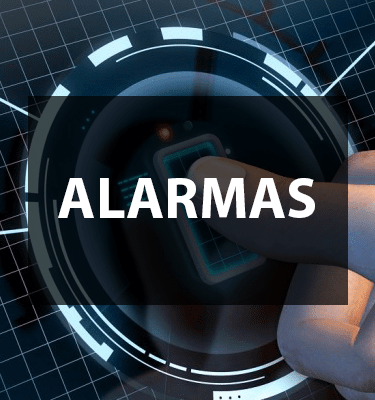
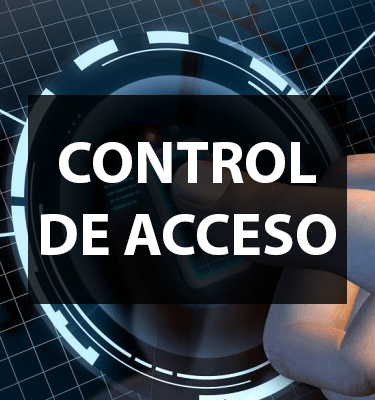
Implementados todos los cambios del docuemento Feedback, excepto el cambio de imagen del hombre en video portero. Falta pulir detalles de formato de texto

diff --git a/index.html b/index.html
@@ -59,11 +59,12 @@
 			    <li data-target="#carousel-inicio" data-slide-to="0" class="active"></li>
 			    <li data-target="#carousel-inicio" data-slide-to="1"></li>
 			    <li data-target="#carousel-inicio" data-slide-to="2"></li>
+			    <li data-target="#carousel-inicio" data-slide-to="3"></li>
 			  </ol>
 			  <div class="carousel-inner">
 			    <div class="carousel-item active">
-                    <img class="d-none d-md-block w-100 img-fluid" src="resources/img/Car1-min.png" alt="First slide">
-                    <img class="d-md-none w-100 img-fluid" src="resources/img/Car1-mobile-min.png" alt="First slide">
+                    <img class="d-none d-md-block w-100 img-fluid" src="resources/img/Car3-min.png" alt="First slide">
+                    <img class="d-md-none w-100 img-fluid" src="resources/img/Car3-mobile-min.png" alt="First slide">
                     <div class="carousel-caption d-none d-md-block">
                         <h3>ALARMAS</h3>
                         <p>Alarmas contra robo e incendio para aplicaciones tanto en residencias, como en negocios con una pequeña estructura, hasta aplicaciones comerciales a gran escala.</p>
@@ -78,11 +79,19 @@
                     </div>
 			    </div>
 			    <div class="carousel-item">
-                    <img class="d-none d-md-block w-100 img-fluid" src="resources/img/Car3-min.png" alt="Third slide">
-                    <img class="d-md-none w-100 img-fluid" src="resources/img/Car3-mobile-min.png" alt="Third slide">
+                    <img class="d-none d-md-block w-100 img-fluid" src="resources/img/Car4-min.png" alt="Third slide">
+                    <img class="d-md-none w-100 img-fluid" src="resources/img/Car4-mobile-min.png" alt="Third slide">
                     <div class="carousel-caption d-none d-md-block">
                         <h3>VIDEOPORTERO</h3>
                         <p>El sistema de Intercomunicador Visual hace de la comunicación algo más personal, más agradable y más tecnológicamente avanzado que nunca.</p>
+				  </div>
+			    </div>
+                <div class="carousel-item">
+                    <img class="d-none d-md-block w-100 img-fluid" src="resources/img/Car1-min.png" alt="Fourth slide">
+                    <img class="d-md-none w-100 img-fluid" src="resources/img/Car1-mobile-min.png" alt="Fourth slide">
+                    <div class="carousel-caption d-none d-md-block">
+                        <h3>CONTROL DE ACCESO</h3>
+                        <p>Soluciones con tecnología de huella digital, reconocimiento facial y tarjetas de proximidad, para la apertura de puertas, control de personal y accesos.</p>
 				  </div>
 			    </div>
 			  </div>
@@ -114,7 +123,7 @@
 		<div class="row justify-content-md-center">
 			<div class="col-md-4 text-center my-sm-auto">
 				<h2 class="display-3 d-none d-md-block">¿Quiénes<br>somos?</h2>
-                <h2 class="display-4 d-md-none">¿Quiénes somos?</h2>
+                <h2 class="display-5 d-md-none">¿Quiénes somos?</h2>
 			</div>
 			<div class="col-md-6 text-justify mt-4">
                 <p class="mb-0">Juan Barrios Seguridad es una empresa que se dedica a la búsqueda de soluciones sustentables en seguridad electrónica respondiendo a las crecientes demandas de la sociedad actual. Contamos con productos homologados por las más exigentes normas.</p>

diff --git a/alarmas.html b/alarmas.html
@@ -83,6 +83,28 @@
             </div>
         </div>
     </div>
+    <div class="row pt-5 pb-5 pb-lg-0 justify-content-center">
+            <div class="col-lg-3">
+                <img class="img-fluid d-none d-lg-block" src="resources/img/phone-app-2-min.png">
+                <img class="d-lg-none app-logo PSNGO-logo" src="resources/img/PSNGO-app-logo-min.png">
+            </div>
+            <div class="col-lg-5">
+                <p class="display-4 mb-0 mt-4 mt-lg-0 cuerpo-copete">PowerSeries Neo go</p>
+                <p class="col-lg-10 mt-3 mt-lg-4 details">
+                    Complementado por soluciones de software exclusivas, el sistema de seguridad PowerSeries Neo ofrece una extensa selección de dispositivos PowerG, creados para instalaciones simples y amigables para el usuario.
+                    <br>
+                    PowerSeries Neo Go brinda conveniencia y tranquilidad mediante una aplicación de simple uso con un control básico sobre su sistema PowerSeries Neo. Mediante conexiones por banda ancha o celular vía el Comunicador PowerSeries Neo, se conecta de forma directa con su sistema sin compartir datos personales en la nube.</p>
+                <h2 class="ml-3 mt-4 mt-lg-5 mb-3 mb-lg-4">Descargá la app:</h2>
+                <div class="mx-3 mb-4">
+                    <a href="https://play.google.com/store/apps/details?id=com.dsc.powerneo&hl=en">
+                        <img class="img-fluid app-link" src="resources/img/play-store-min.png">
+                    </a>
+                    <a href="https://itunes.apple.com/uy/app/powerseries-neo-go/id966948431?mt=8">
+                        <img class="img fluid app-link" src="resources/img/app-store-min.png">
+                    </a>
+                </div>
+            </div>
+        </div>
 
     <!-- Footer -->
     <footer class="container-fluid px-0 footer">

diff --git a/video-vigilancia.html b/video-vigilancia.html
@@ -84,6 +84,28 @@
             </div>
         </div>
     </div>
+    <div class="row pt-5 pb-5 pb-lg-0 justify-content-center">
+            <div class="col-lg-3">
+                <img class="img-fluid d-none d-lg-block" src="resources/img/phone-app-min.png">
+                <img class="d-lg-none app-logo" src="resources/img/Hikvision-app-logo-min.png">
+            </div>
+            <div class="col-lg-5">
+                <p class="display-4 mb-0 mt-4 mt-lg-0 cuerpo-copete">Hik-CONNECT</p>
+                <p class="col-lg-10 mt-3 mt-lg-4 details">
+                    La aplicación Hik-connect está diseñada para trabajar con las cámaras Hikvision DVRs, NVRs e IP, que soportan Cloud P2P, y permite ver en vivo tus cámaras de forma remota.
+                    <br>
+                    Todo lo que se necesita es crear una cuenta, añadir el dispositivo, y disfrutar del video en tiempo real de sus cámaras desde cualquier lugar en el mundo. También permite reproducir grabaciones, y configurar mensajes de aviso al activarse el detector de movimiento incorporados en la cámara.</p>
+                <h2 class="ml-3 mt-4 mt-lg-5 mb-3 mb-lg-4">Descargá la app:</h2>
+                <div class="mx-3 mb-4">
+                    <a href="https://play.google.com/store/apps/details?id=com.hikvision.hikconnect&hl=es">
+                        <img class="img-fluid app-link" src="resources/img/play-store-min.png">
+                    </a>
+                    <a href="https://itunes.apple.com/us/app/hik-connect/id1087803190?mt=8">
+                        <img class="img fluid app-link" src="resources/img/app-store-min.png">
+                    </a>
+                </div>
+            </div>
+        </div>
 
     <!-- Footer -->
     <footer class="container-fluid px-0 footer">

diff --git a/control-acceso.html b/control-acceso.html
@@ -79,9 +79,7 @@
                 <p>Brindamos la mejor solución en función de las necesidades que cada empresa necesita, ya sea en el asesoramiento previo como en el soporte postventa.</p>
             </div>
             <div class="col-lg-6 pl-lg-5 my-auto">
-                <div class="embed-responsive embed-responsive-16by9">
-                    <iframe class="embed-responsive-item" src="https://www.youtube.com/embed/vQDGpjye6lA"></iframe>
-                </div>
+                <img class="img-fluid img-example" src="resources/img/control-acceso-example-min.png">
             </div>
         </div>
     </div>

diff --git a/css/responsive-normalize-servicios.css b/css/responsive-normalize-servicios.css
@@ -25,6 +25,10 @@
         display: inline-block;
         width: 20%;
     }
+    
+    .PSNGO-logo {
+        border-radius: 25px;
+    }
 }
 
 /*  From sm to md  */

diff --git a/css/style-control-acceso.css b/css/style-control-acceso.css
@@ -6,3 +6,7 @@
 .servicio-logo {
     width: 90%;
 }
+
+.img-example {
+    border-radius: 25px;
+}
